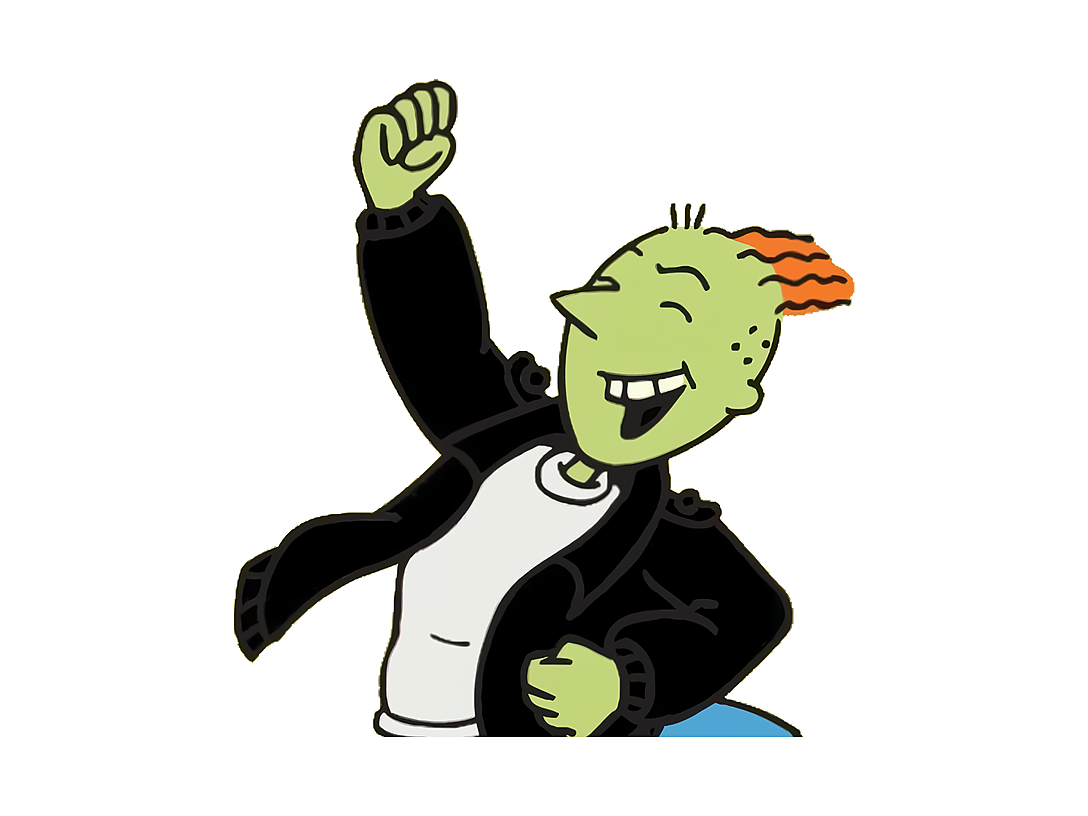
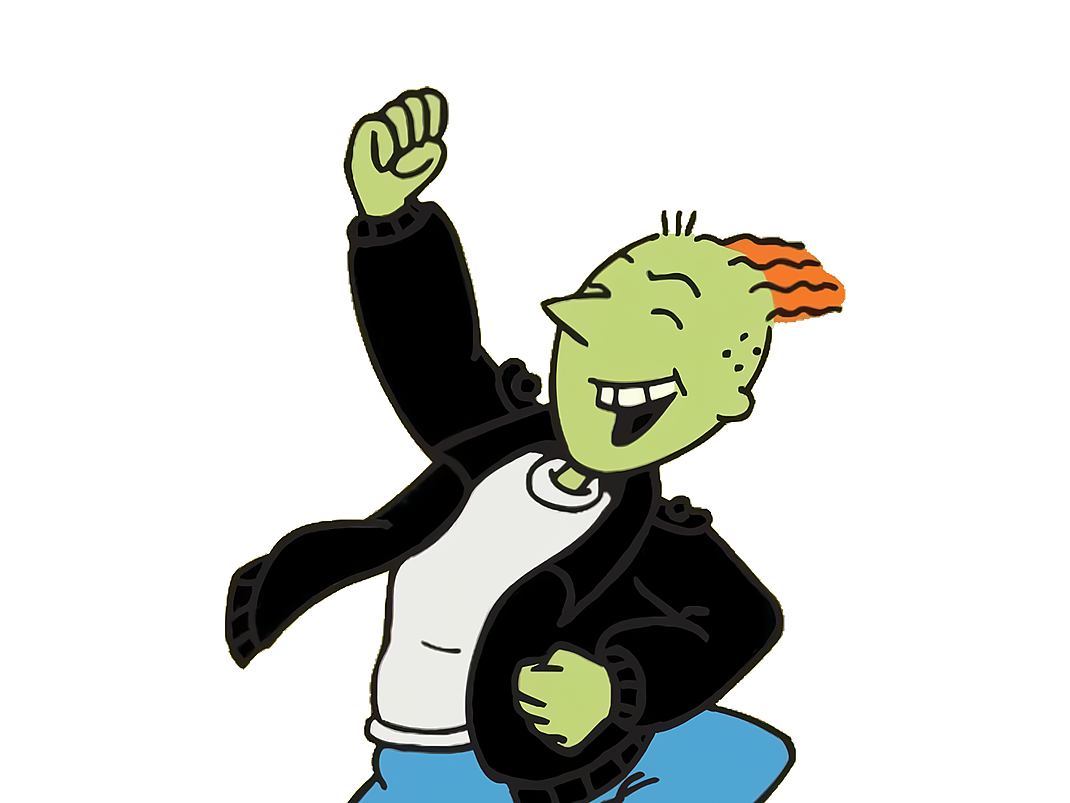
Add 5 cartoon item swatches, retune 4 palettes, fix Roger Klotz crop
New quad items with themed distractor palettes:
- T.J. Detweiler's jacket (Recess): green vs ruby red, sky blue, leather brown
- Buster Bunny's T-shirt (Tiny Toon Adventures): red vs baby blue, apple green, burnt orange
- Billy's T-shirt stripe (Grim Adventures): blue vs red, daisy yellow, green
- Butters's jacket (South Park): teal vs orange, black, red
- Freakazoid's suit: red vs blue, gray, purple

Retune existing item distractor palettes:
- Cosmo's Mom's hair: green, pink, deep purple
- Mystery Machine logo text: blue, soft black, yellow
- Dora's shirt: yellow, green, very light pink
- Bobby Hill's shirt: tan, black, soft green

Re-crop Roger Klotz so his lower waist sits flush at the bottom of the
4:3 frame instead of floating mid-box with the waist clipped.

Changed region(s): [[0.185, 0.0934, 0.8019, 1.0]]

diff --git a/js/quad.js b/js/quad.js
@@ -337,6 +337,83 @@ const PALETTES = {
     '#E63946', // red
     '#87CEEB', // soft sky blue
   ],
+  // T.J. Detweiler's deep forest-green bomber jacket. Distractors are ruby
+  // red, sky blue, and a leather brown — three clearly distinct families that
+  // bracket the green without offering a near-shade.
+  'tj-detweiler-jacket': [
+    '#34604E', // T.J. jacket green (correct, mirrors items.json)
+    '#9B111E', // ruby red
+    '#87CEEB', // sky blue
+    '#8B5A2B', // leather brown
+  ],
+  // Buster Bunny's red-orange T-shirt. Distractors are baby blue, apple
+  // green, and a burnt orange — the orange is the warm near-family trap, the
+  // others clearly cold/distinct.
+  'buster-bunny-shirt': [
+    '#FA422B', // Buster shirt red (correct, mirrors items.json)
+    '#89CFF0', // baby blue
+    '#8DB600', // apple green
+    '#CC5500', // burnt orange
+  ],
+  // Billy's blue T-shirt stripe. Distractors are red, daisy yellow, and a
+  // grass green — three saturated hue families clearly apart from the blue.
+  'billy-shirt-stripe': [
+    '#047CC0', // Billy stripe blue (correct, mirrors items.json)
+    '#E63946', // red
+    '#FFD93D', // daisy yellow
+    '#6FB04A', // green
+  ],
+  // Butters's teal-green jacket. Distractors are orange, black, and red —
+  // three chromatic-and-neutral options that read as clearly different.
+  'butters-jacket': [
+    '#51B491', // Butters jacket teal (correct, mirrors items.json)
+    '#F39C12', // orange
+    '#1A1A1A', // black
+    '#E63946', // red
+  ],
+  // Freakazoid's red superhero suit. Distractors are blue, gray, and purple —
+  // distinct families so no near-red muddies the pick.
+  'freakazoid-suit': [
+    '#D4260D', // Freakazoid suit red (correct, mirrors items.json)
+    '#4A90D9', // blue
+    '#9B9B9B', // gray
+    '#8B5FBF', // purple
+  ],
+  // Cosmo's Mom's mint-teal hair. Distractors are a grass green, pink, and a
+  // deep purple — the grass green is the cool near-family trap, kept clearly
+  // darker/more saturated than her pale mint.
+  'cosmo-mom-hair': [
+    '#91F5AC', // Cosmo's Mom teal (correct, mirrors items.json)
+    '#6FB04A', // green
+    '#FF8FB3', // pink
+    '#5B2C8C', // deep purple
+  ],
+  // The Mystery Machine's orange-red logo lettering. Distractors are blue, a
+  // soft black, and yellow — three clearly different families from the warm
+  // orange-red.
+  'mystery-machine-text': [
+    '#D5331E', // Mystery Machine orange-red (correct, mirrors items.json)
+    '#4A90D9', // blue
+    '#2B2B2B', // soft black
+    '#F4D03F', // yellow
+  ],
+  // Dora's pink T-shirt. Distractors are yellow, green, and a very light pink
+  // near-miss kept far lighter than her saturated pink so it never reads as
+  // the same shade.
+  'dora-shirt': [
+    '#F371AC', // Dora shirt pink (correct, mirrors items.json)
+    '#F4D03F', // yellow
+    '#6FB04A', // green
+    '#FBD3E0', // very light pink
+  ],
+  // Bobby Hill's slate-blue T-shirt. Distractors are tan, black, and a soft
+  // green — three earthy/neutral families clearly apart from the muted slate.
+  'bobby-hill-shirt': [
+    '#567277', // Bobby shirt slate (correct, mirrors items.json)
+    '#D2B48C', // tan
+    '#1A1A1A', // black
+    '#7FB069', // soft green
+  ],
 };
 
 const BOX_COUNT = 4;

diff --git a/scripts/process_photos.py b/scripts/process_photos.py
@@ -65,10 +65,10 @@ PRECROP = {
     # the whole hang-glider. Leaves his full head + arrow in frame.
     "IMG_0683.webp": {"left": 0.30, "right": 0.18, "top": 0.04, "bottom": 0.18},
     # Roger Klotz strikes a full-body dance pose; the item is his orange hair.
-    # Drop the lower body so the framing is the top half with his full head and
-    # hair showing. The transparent bg keeps it on the isolated-subject path,
-    # which pads back to 4:3 without ever clipping the head.
-    "IMG_0685.webp": {"bottom": 0.45},
+    # Drop the legs so the framing is head-to-lower-waist. Paired with a
+    # Y_ANCHOR of 1.0 below, his waistline sits flush at the bottom of the 4:3
+    # frame instead of floating mid-box with the waist clipped off.
+    "IMG_0685.webp": {"bottom": 0.40},
 }
 
 # Vertical anchor for isolated-subject crops. 0.5 (default) centers the
@@ -78,6 +78,9 @@ PRECROP = {
 # floating with bg padding below.
 Y_ANCHOR = {
     "IMG_0379.png": 1.0,  # Squidward - anchor shirt bottom to frame bottom
+    # Roger Klotz - pin his lower waist to the bottom of the frame so he doesn't
+    # float mid-box with the waistline clipped off.
+    "IMG_0685.webp": 1.0,
 }
 
 # After precrop + cover_crop strategy is selected, shift the centred crop
@@ -313,6 +316,12 @@ ASSIGNMENTS = {
     "jade-hoodie":              "IMG_0691.webp",
     "penny-proud-cardigan":     "IMG_0693.webp",
     "dw-dress":                 "IMG_0694.png",
+    # ---- Newest item additions ----
+    "tj-detweiler-jacket":      "IMG_0696.webp",
+    "buster-bunny-shirt":       "IMG_0701.webp",
+    "billy-shirt-stripe":       "IMG_0702.webp",
+    "butters-jacket":           "IMG_0704.webp",
+    "freakazoid-suit":          "IMG_0705.webp",
 }
 
 
